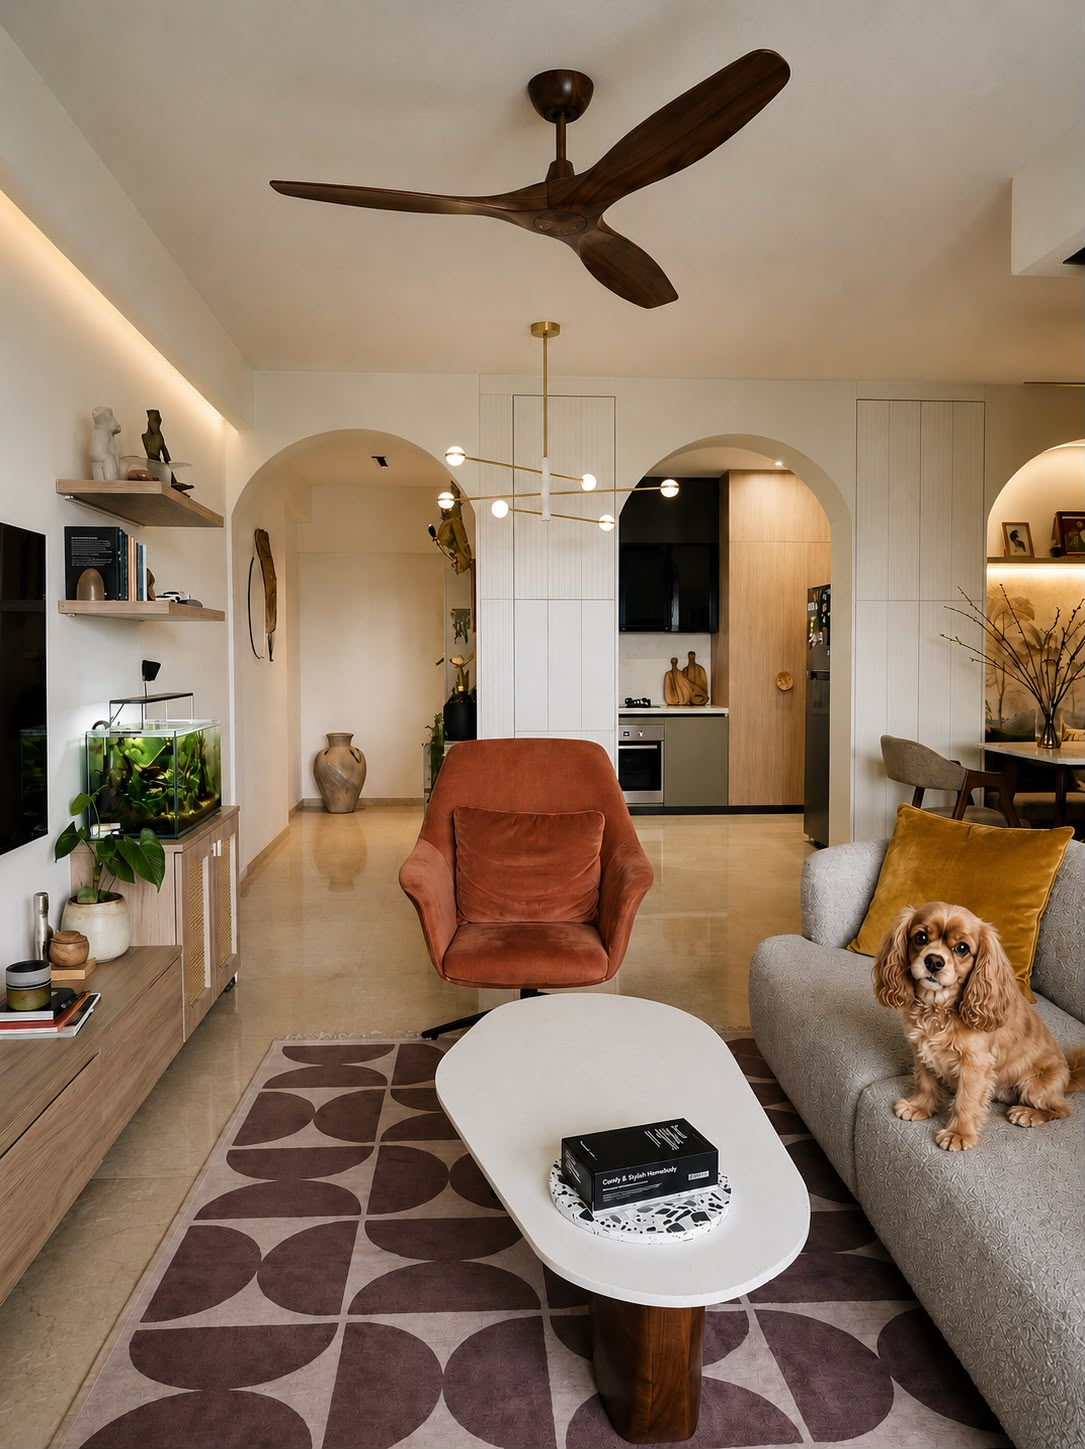
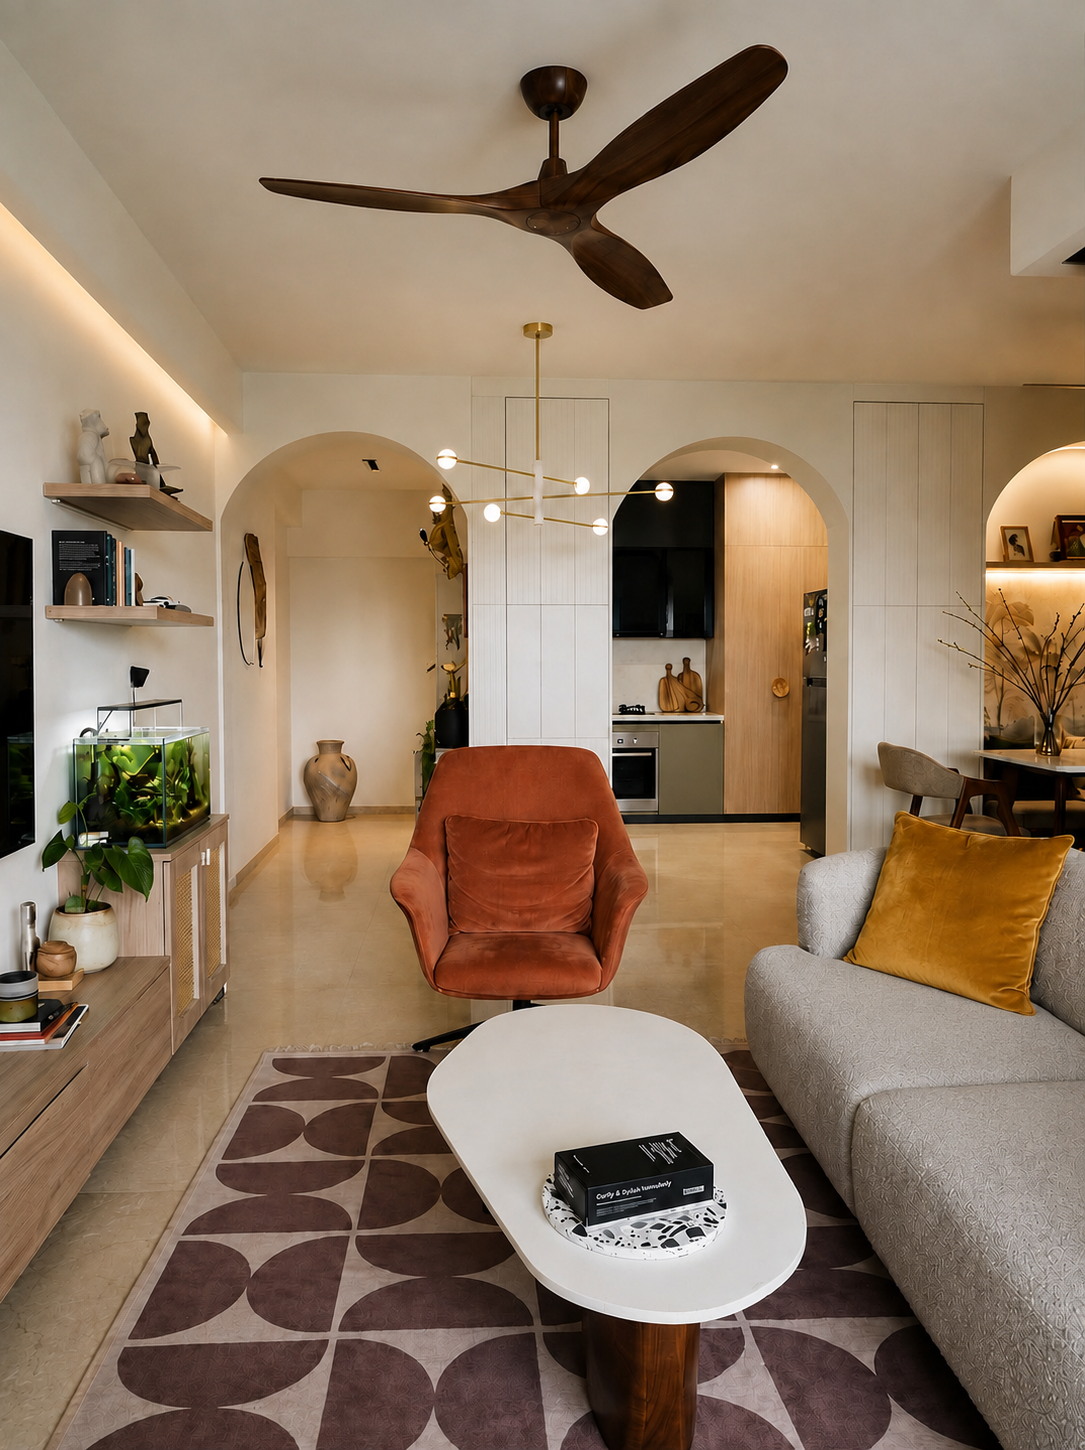
images and chnages fix

diff --git a/lib/images.ts b/lib/images.ts
@@ -190,75 +190,59 @@ export const SVASA_GALLERY = [
   SVASA_IMAGES.image12,
 ] as const;
 
-const delhiVilla = (filename: string) => publicImage('Delhi_Villa', filename);
+const delhiVilla = (filename: string) => publicImage('Delhi villa', filename);
 
 /** Delhi Villa project imagery */
 export const DELHI_VILLA_IMAGES = {
-  hero: delhiVilla('1.png'),
-  image02: delhiVilla('2.png'),
-  image03: delhiVilla('3.png'),
-  image04: delhiVilla('4.png'),
-  image05: delhiVilla('5.png'),
-  image06: delhiVilla('6.png'),
-  image07: delhiVilla('7.png'),
-  image08: delhiVilla('8.png'),
-  image09: delhiVilla('9.png'),
-  image10: delhiVilla('10.png'),
-  image11: delhiVilla('11.png'),
-  image12: delhiVilla('12.png'),
-  image13: delhiVilla('13.png'),
-  image14: delhiVilla('14.png'),
-  image15: delhiVilla('15.png'),
-  image16: delhiVilla('16.png'),
-  image20: delhiVilla('20.png'),
-  image21: delhiVilla('21.png'),
-  image22: delhiVilla('22.png'),
-  image23: delhiVilla('23.png'),
-  image24: delhiVilla('24.png'),
+  hero: delhiVilla('34.png'),
+  image35: delhiVilla('35.png'),
+  image36: delhiVilla('36.png'),
+  image37: delhiVilla('37.png'),
+  image38: delhiVilla('38.png'),
+  image39: delhiVilla('39.png'),
+  image40: delhiVilla('40.png'),
+  image41: delhiVilla('41.png'),
+  image42: delhiVilla('42.png'),
+  image43: delhiVilla('43.png'),
+  image44: delhiVilla('44.png'),
+  image45: delhiVilla('45.png'),
+  image46: delhiVilla('46.png'),
+  image47: delhiVilla('47.png'),
+  image48: delhiVilla('48.png'),
+  image49: delhiVilla('49.png'),
+  image50: delhiVilla('50.png'),
+  // Aliases for compatibility
+  image07: delhiVilla('37.png'),
+  image10: delhiVilla('40.png'),
+  image15: delhiVilla('45.png'),
 } as const;
 
 export const DELHI_VILLA_GALLERY = [
   DELHI_VILLA_IMAGES.hero,
-  DELHI_VILLA_IMAGES.image02,
-  DELHI_VILLA_IMAGES.image03,
-  DELHI_VILLA_IMAGES.image04,
-  DELHI_VILLA_IMAGES.image05,
-  DELHI_VILLA_IMAGES.image06,
-  DELHI_VILLA_IMAGES.image07,
-  DELHI_VILLA_IMAGES.image08,
-  DELHI_VILLA_IMAGES.image09,
-  DELHI_VILLA_IMAGES.image10,
-  DELHI_VILLA_IMAGES.image11,
-  DELHI_VILLA_IMAGES.image12,
-  DELHI_VILLA_IMAGES.image13,
-  DELHI_VILLA_IMAGES.image14,
-  DELHI_VILLA_IMAGES.image15,
-  DELHI_VILLA_IMAGES.image16,
-  DELHI_VILLA_IMAGES.image20,
-  DELHI_VILLA_IMAGES.image21,
-  DELHI_VILLA_IMAGES.image22,
-  DELHI_VILLA_IMAGES.image23,
-  DELHI_VILLA_IMAGES.image24,
+  DELHI_VILLA_IMAGES.image35,
+  DELHI_VILLA_IMAGES.image36,
+  DELHI_VILLA_IMAGES.image37,
+  DELHI_VILLA_IMAGES.image38,
+  DELHI_VILLA_IMAGES.image39,
+  DELHI_VILLA_IMAGES.image40,
+  DELHI_VILLA_IMAGES.image41,
+  DELHI_VILLA_IMAGES.image42,
+  DELHI_VILLA_IMAGES.image43,
+  DELHI_VILLA_IMAGES.image44,
+  DELHI_VILLA_IMAGES.image45,
+  DELHI_VILLA_IMAGES.image46,
+  DELHI_VILLA_IMAGES.image47,
+  DELHI_VILLA_IMAGES.image48,
+  DELHI_VILLA_IMAGES.image49,
+  DELHI_VILLA_IMAGES.image50,
 ] as const;
 
-const artius = (filename: string) =>
-  publicImage('Artius experience centre.pptx', filename);
+const artius = (filename: string) => publicImage('Artius', filename);
 
 /** ARTIUS Experience Centre project imagery */
 export const ARTIUS_IMAGES = {
-  hero: artius('1.png'),
-  image10: artius('10.png'),
-  image11: artius('11.png'),
-  image12: artius('12.png'),
-  image14: artius('14.png'),
-  image15: artius('15.png'),
-  image16: artius('16.png'),
-  image17: artius('17.png'),
-  image18: artius('18.png'),
-  image19: artius('19.png'),
-  image20: artius('20.png'),
-  image21: artius('21.png'),
-  image22: artius('22.png'),
+  hero: artius('23.png'),
+  image23: artius('23.png'),
   image24: artius('24.png'),
   image25: artius('25.png'),
   image26: artius('26.png'),
@@ -268,23 +252,10 @@ export const ARTIUS_IMAGES = {
   image30: artius('30.png'),
   image31: artius('31.png'),
   image32: artius('32.png'),
-  image33: artius('33.png'),
 } as const;
 
 export const ARTIUS_GALLERY = [
   ARTIUS_IMAGES.hero,
-  ARTIUS_IMAGES.image10,
-  ARTIUS_IMAGES.image11,
-  ARTIUS_IMAGES.image12,
-  ARTIUS_IMAGES.image14,
-  ARTIUS_IMAGES.image15,
-  ARTIUS_IMAGES.image16,
-  ARTIUS_IMAGES.image17,
-  ARTIUS_IMAGES.image18,
-  ARTIUS_IMAGES.image19,
-  ARTIUS_IMAGES.image20,
-  ARTIUS_IMAGES.image21,
-  ARTIUS_IMAGES.image22,
   ARTIUS_IMAGES.image24,
   ARTIUS_IMAGES.image25,
   ARTIUS_IMAGES.image26,
@@ -294,7 +265,6 @@ export const ARTIUS_GALLERY = [
   ARTIUS_IMAGES.image30,
   ARTIUS_IMAGES.image31,
   ARTIUS_IMAGES.image32,
-  ARTIUS_IMAGES.image33,
 ] as const;
 
 /** Portfolio imagery for service pages and highlights. */
